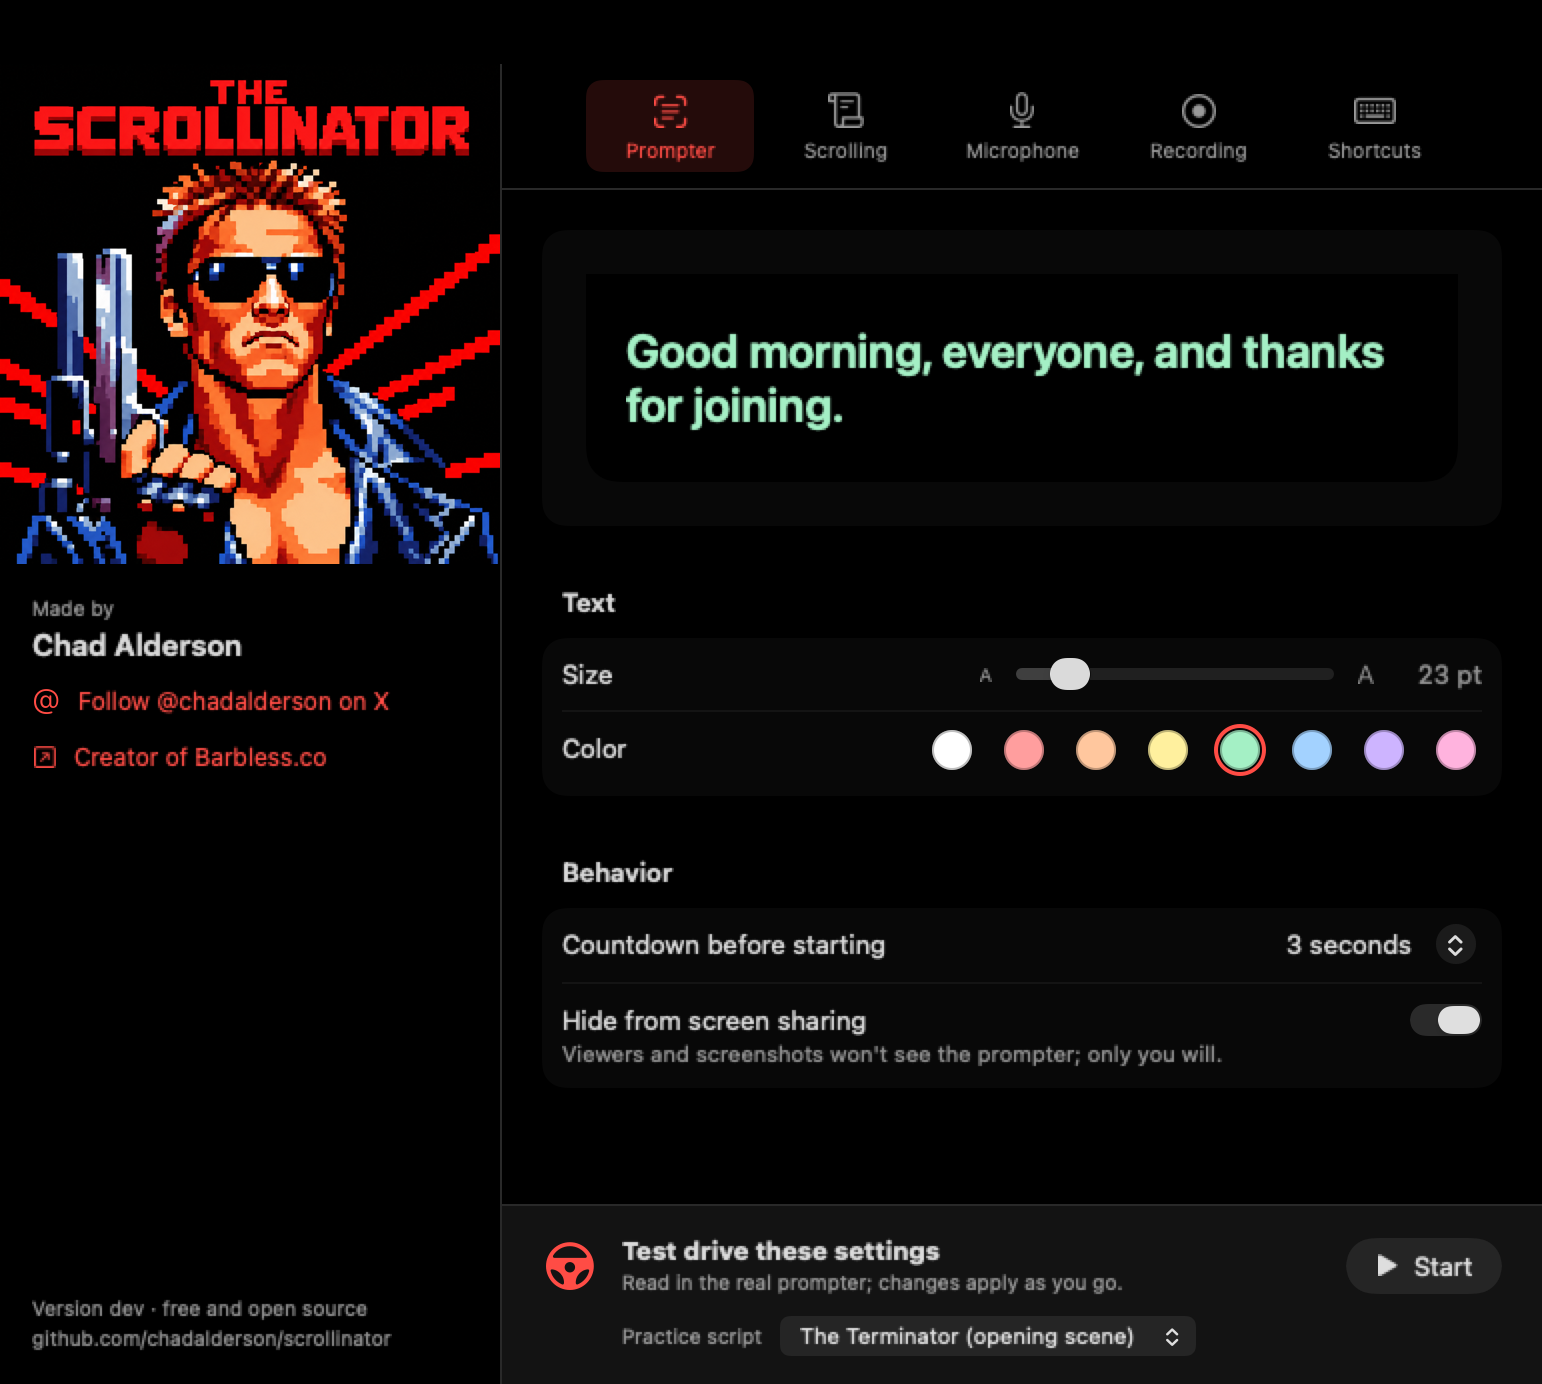
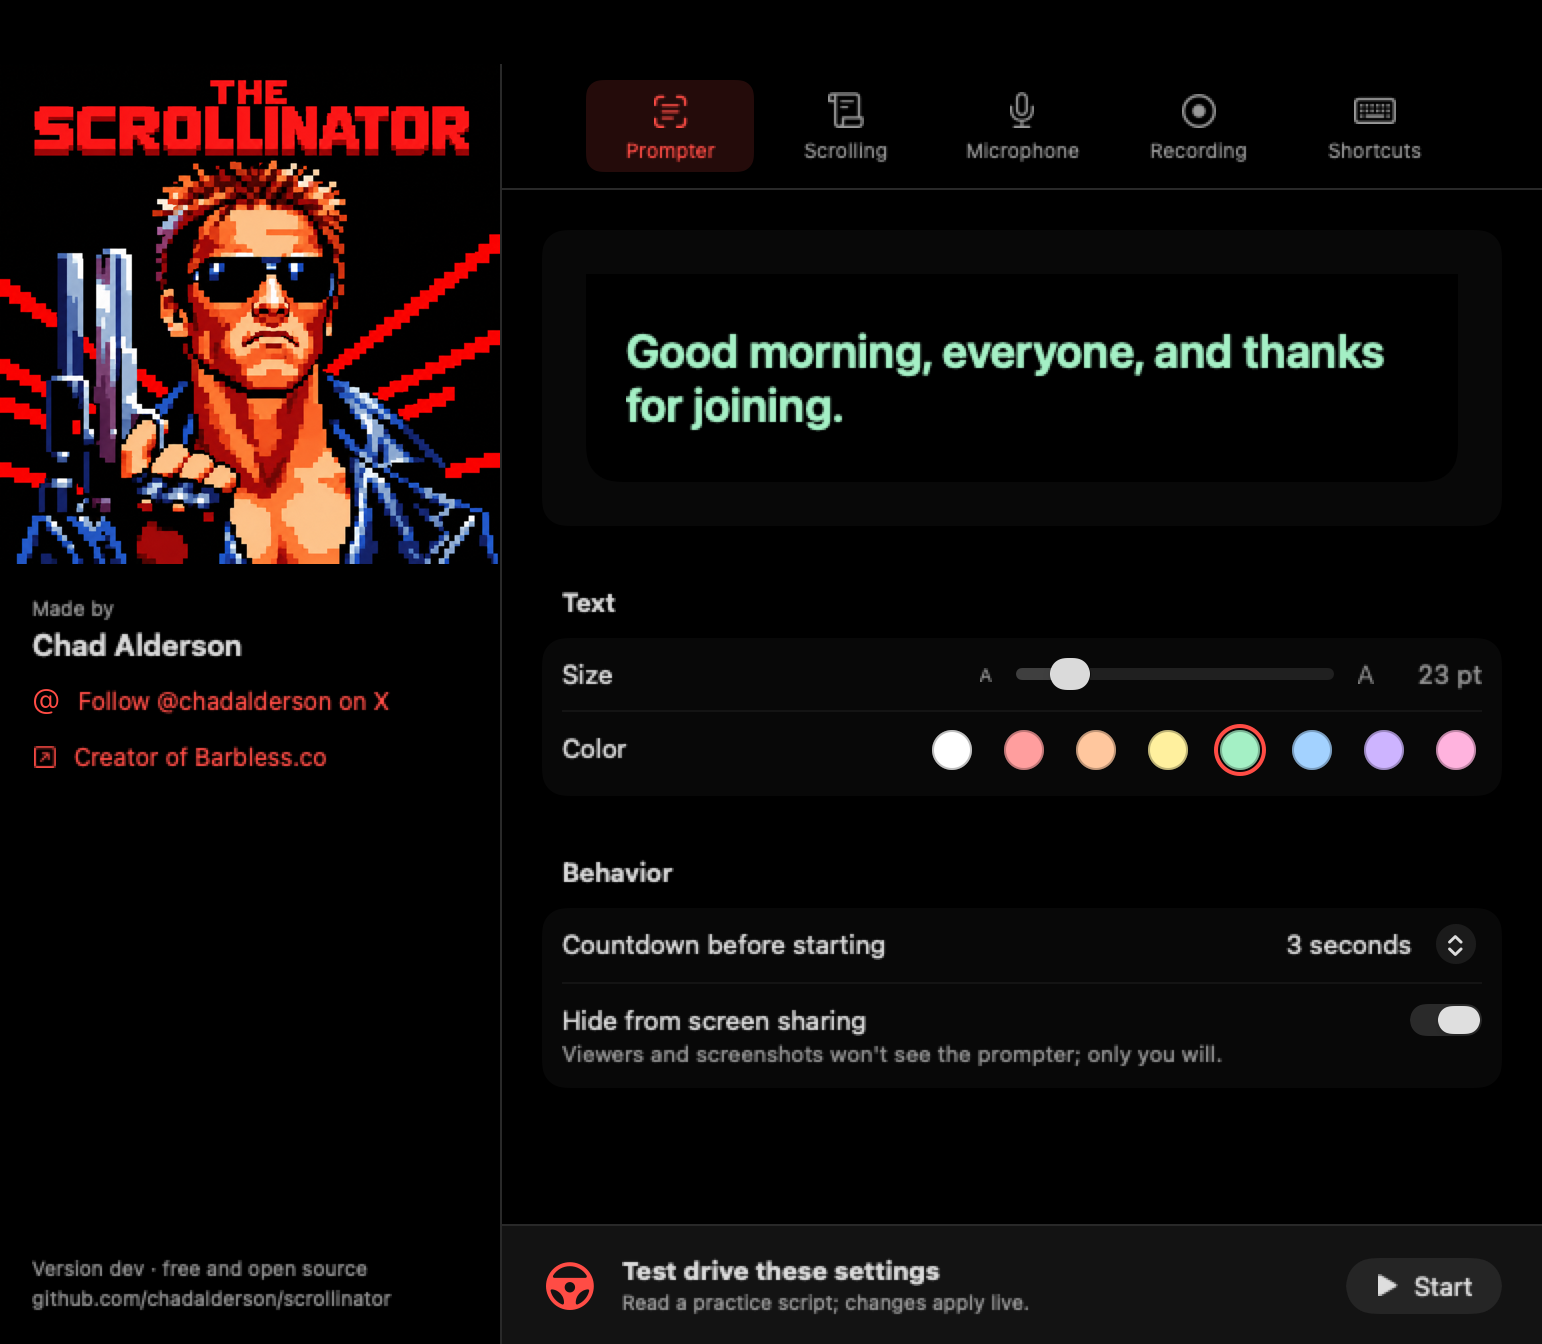
Test drive: use the parody practice script only
Replace the screenplay excerpt with an original parody scene and remove
the script picker, so test drives always read the built-in practice
script.

diff --git a/Sources/Scrollinator/ScriptStore.swift b/Sources/Scrollinator/ScriptStore.swift
@@ -89,31 +89,34 @@ final class ScriptStore: ObservableObject {
 }
 
 extension Script {
-    /// Built-in practice text for test-driving settings: the opening of The Terminator (1984),
-    /// screenplay by James Cameron and Gale Anne Hurd. Never saved to the library.
+    /// The practice text for test-driving settings: an original parody. Never saved to the library.
     static let practice = Script(
         id: UUID(uuidString: "5C0111A7-0000-4000-8000-000000000001")!,
-        title: "The Terminator (opening scene)",
+        title: "The Scrollinator",
         body: """
-        Silence. Gradually the sound of distant traffic becomes audible. A LOW ANGLE bounded on one side by a chain-link fence and on the other by the one-story public school buildings. Spray-can hieroglyphics and distant streetlight shadows. This is a Los Angeles public school in a blue collar neighborhood.
+        INT. HOME OFFICE - NIGHT
 
-        ANGLE BETWEEN SCHOOL BUILDINGS, where a trash dumpster looms in a LOW ANGLE, part of the clutter behind the gymnasium. A CAT enters FRAME. CAMERA DOLLIES FORWARD, prowling with him through the landscape of trash receptacles and shadows.
+        A ring light hums. Lightning flickers across a webcam. Blue static gathers above the desk, and a figure rises out of it, wearing very dark sunglasses.
 
-        CLOSE ON CAT, which freezes, alert, sensing something just beyond human perception.
+        SCROLLINATOR: I am the Scrollinator. I have been sent back in time to protect your presentation.
 
-        A sourceless wind rises, and with it a keening WHINE. Papers blow across the pavement. The cat YOWLS and hides under the dumpster. Windows rattle in their frames. The WHINE intensifies, accompanied now by a wash of frigid PURPLE LIGHT. A CONCUSSION like a thunderclap right overhead blows in all the windows facing the yard.
+        Somewhere in the future, a meeting goes terribly wrong. The speaker looks down at their notes. They lose eye contact. They say "um" forty-seven times. Nobody remembers the quarterly numbers.
 
-        C.U. - CAT, its eyes are wide as the glare dies.
+        I cannot let that happen.
 
-        ELECTRICAL DISCHARGES arc from the dumpster to a water faucet and climb a drain pipe like a Jacob's Ladder.
+        Read these words out loud. When you speak, I scroll. When you pause, I wait. I do not get tired. I do not get bored. And I absolutely will not stop until you reach the end of your script.
 
-        SLOW PAN as the sound of stray electrical CRACKLING subsides. FRAME comes to rest on the figure of a NAKED MAN kneeling, faced away, in the previously empty yard. He stands, slowly. The man is in his late thirties, tall and powerfully built, moving with graceful precision.
+        Try going faster. I will keep up. Now slow down, as if you were explaining something important to a very nervous robot. I can do that too.
 
-        C.U. - MAN, his facial features reiterate the power of his body and are dominated by the eyes, which are intense, blue and depthless. His hair is military short.
+        Go ahead and ad-lib. Tell me about your weekend. Watch the waveform at the bottom turn white while you wander off script, and green again when you come back. I will be right here, on the line you left.
 
-        This man is the TERMINATOR.
+        Now adjust your settings while you read. Make the text bigger. Change the color. Turn the sensitivity up or down until only your voice moves the words.
 
-        He glances down, taking calm inventory of himself, and notices that a fine white ash covers his skin. He brushes at it unconcernedly as he walks toward the fence, scanning his surroundings.
+        When everything feels right, close the prompter. Your settings are already saved.
+
+        Remember: the future is not set. There is no fate but what we read.
+
+        I'll be back. On the next line.
         """
     )
 

diff --git a/Sources/Scrollinator/SettingsView.swift b/Sources/Scrollinator/SettingsView.swift
@@ -55,7 +55,7 @@ struct SettingsView: View {
             }
             .frame(width: 520)
         }
-        .frame(height: 660)
+        .frame(height: 640)
         .background(Theme.background.ignoresSafeArea())
         .tint(Theme.red)
         .environment(\.colorScheme, .dark)
@@ -63,62 +63,34 @@ struct SettingsView: View {
     }
 }
 
-/// Opens the real prompter with a practice script, so settings can be dialed in while reading.
+/// Opens the real prompter with the practice script, so settings can be dialed in while reading.
 private struct TestDriveBar: View {
     @ObservedObject private var prompter = PrompterController.shared
-    @ObservedObject private var store = ScriptStore.shared
-    @AppStorage(Pref.Key.testDriveScript) private var scriptID = ""
-
-    /// Falls back to the built-in script if the chosen one was deleted.
-    private var selection: Binding<String> {
-        Binding(
-            get: { store.scripts.contains { $0.id.uuidString == scriptID } ? scriptID : "" },
-            set: { scriptID = $0 }
-        )
-    }
 
     var body: some View {
-        VStack(alignment: .leading, spacing: 10) {
-            HStack(spacing: 12) {
-                Image(systemName: "steeringwheel")
-                    .font(.system(size: 24))
-                    .foregroundStyle(Theme.red)
-                VStack(alignment: .leading, spacing: 2) {
-                    Text("Test drive these settings").font(.headline)
-                    Text("Read in the real prompter; changes apply as you go.")
-                        .font(.caption)
-                        .foregroundStyle(.secondary)
-                }
-                Spacer(minLength: 8)
-                if prompter.isTestDriving {
-                    Button("Stop", systemImage: "stop.fill") { prompter.hide() }
-                        .controlSize(.large)
-                } else {
-                    Button("Start", systemImage: "play.fill") { prompter.testDrive() }
-                        .buttonStyle(.borderedProminent)
-                        .controlSize(.large)
-                }
+        HStack(spacing: 12) {
+            Image(systemName: "steeringwheel")
+                .font(.system(size: 24))
+                .foregroundStyle(Theme.red)
+            VStack(alignment: .leading, spacing: 2) {
+                Text("Test drive these settings").font(.headline)
+                Text("Read a practice script; changes apply live.")
+                    .font(.caption)
+                    .foregroundStyle(.secondary)
             }
-            HStack(spacing: 8) {
-                Text("Practice script").font(.caption).foregroundStyle(.secondary)
-                Picker("Practice script", selection: selection) {
-                    Text(Script.practice.title).tag("")
-                    if !store.scripts.isEmpty { Divider() }
-                    ForEach(store.scripts) { Text($0.title).tag($0.id.uuidString) }
-                }
-                .labelsHidden()
-                .pickerStyle(.menu)
-                .controlSize(.small)
-                .fixedSize()
+            Spacer(minLength: 8)
+            if prompter.isTestDriving {
+                Button("Stop", systemImage: "stop.fill") { prompter.hide() }
+                    .controlSize(.large)
+            } else {
+                Button("Start", systemImage: "play.fill") { prompter.testDrive() }
+                    .buttonStyle(.borderedProminent)
+                    .controlSize(.large)
             }
-            .padding(.leading, 40)
         }
         .padding(.horizontal, 20)
         .padding(.vertical, 14)
         .background(Theme.card)
-        .onChange(of: scriptID) {
-            if prompter.isTestDriving { prompter.testDrive() }
-        }
     }
 }
 

diff --git a/Sources/Scrollinator/PrompterController.swift b/Sources/Scrollinator/PrompterController.swift
@@ -63,11 +63,9 @@ final class PrompterController: NSObject, ObservableObject, NSWindowDelegate {
         start(script, testDrive: false)
     }
 
-    /// Opens the real prompter with a practice script so settings can be tried while reading.
+    /// Opens the real prompter with the practice script so settings can be tried while reading.
     func testDrive() {
-        let chosen = UserDefaults.standard.string(forKey: Pref.Key.testDriveScript) ?? ""
-        let script = store.scripts.first { $0.id.uuidString == chosen } ?? .practice
-        start(script, testDrive: true)
+        start(.practice, testDrive: true)
     }
 
     private func start(_ script: Script, testDrive: Bool) {

diff --git a/Sources/Scrollinator/Prefs.swift b/Sources/Scrollinator/Prefs.swift
@@ -26,8 +26,6 @@ enum Pref {
         static let recordSessions = "recordSessions"
         static let recordingFolder = "recordingFolder"
         static let recordingFolderBookmark = "recordingFolderBookmark"
-        /// A script ID from the library, or empty for the built-in practice script.
-        static let testDriveScript = "testDriveScript"
         static let prompterWidth = "prompterWidth"
         static let prompterHeight = "prompterHeight"
     }

diff --git a/README.md b/README.md
@@ -54,8 +54,9 @@ it, ship it.
 ### Test drive your settings
 - The Prompter, Scrolling and Microphone settings have a **Test drive** button. It opens the real
   prompter with a practice script while Settings stays open, so you can change size, color, speed or
-  sensitivity and feel the difference as you read. The built-in practice script is the opening scene
-  of *The Terminator*; you can pick any of your own scripts instead. Test drives are never recorded.
+  sensitivity and feel the difference as you read. The practice script is a short parody scene in
+  which the Scrollinator is sent back in time to save your presentation. Test drives are never
+  recorded.
 
 ### Stays out of the way
 - **Hidden from screen sharing and screenshots.** Zoom, Meet, Teams and screen recordings don't see
@@ -172,9 +173,8 @@ build doesn't use it at all.
 ## Credits
 
 Inspired by [Moody](https://moody.mjarosz.com). The name and the 16-bit icon are a parody of, and an
-affectionate nod to, a certain 1984 movie about a very persistent cyborg. The built-in practice script
-is the opening of *The Terminator* (1984) screenplay by James Cameron and Gale Anne Hurd. No
-affiliation with or endorsement by anyone involved.
+affectionate nod to, a certain 1984 movie about a very persistent cyborg. No affiliation with or
+endorsement by anyone involved.
 
 **Publishing your own copy?** Swap the icon first: the App Store rejects apps that use a real
 person's likeness without permission. Delete `Resources/AppIcon.png` and the build falls back to an
